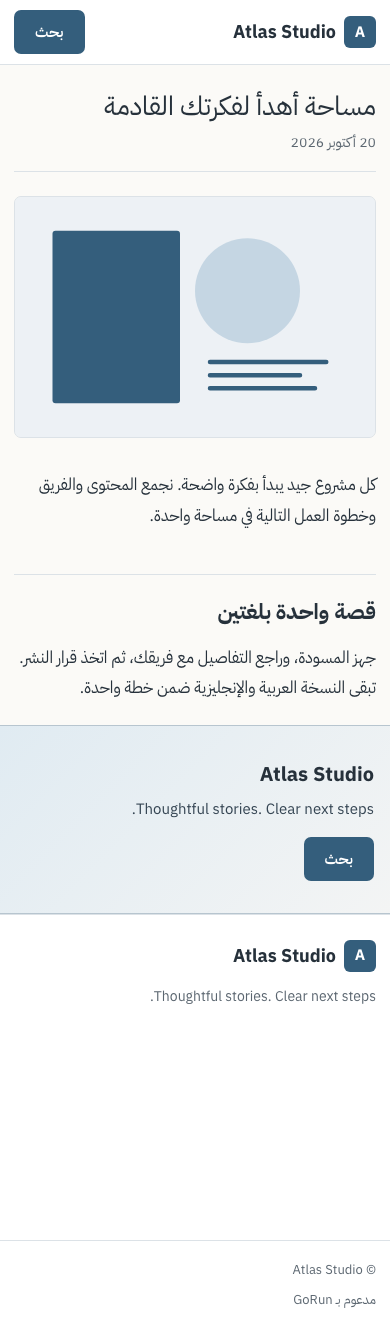
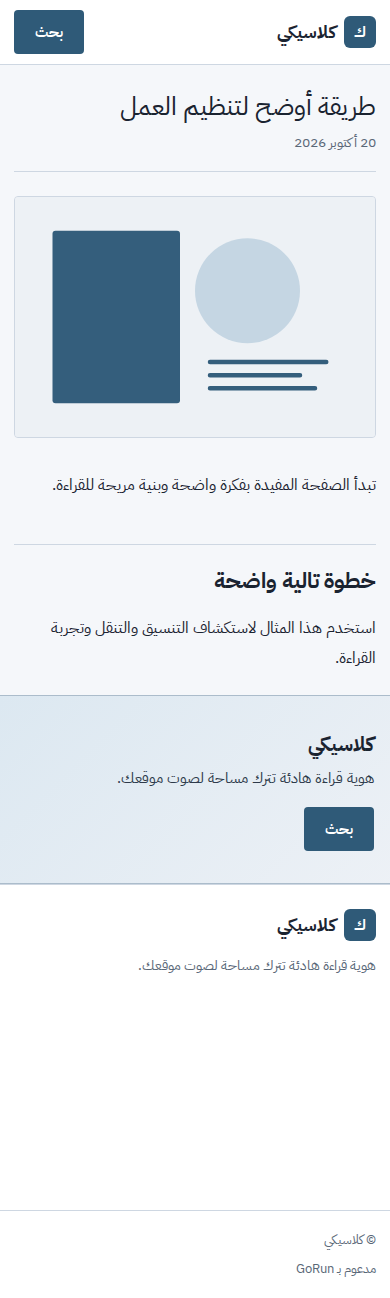
feat(themes): identity systems Classic/Modern/Minimal/Serif/Docs (#104)
Ship-with themes are identity token systems (not site-pattern packs).
Rename display names away from Harbor, refresh editorial / clean-technical
/ warm-local tokens, and regenerate admin screenshots. Slugs stay stable.

diff --git a/themes/portfolio/assets/site.css b/themes/portfolio/assets/site.css
@@ -1,4 +1,4 @@
-:where(html[data-theme="portfolio"]){--bg:#fbf9fd;--panel:#f4eff9;--panel-2:#eae2f2;--panel-3:#ded2e9;--head:#292132;--ink:#292132;--ink-2:#41374b;--muted:#64596f;--muted-tinted:#53465f;--line:#cfc3dc;--line-2:#e1d9e9;--line-strong:#9784aa;--accent:#6b3fa0;--accent-hover:#523078;--accent-ink:var(--accent);--accent-soft:#eee4f7;--accent-tint:#f6f0fb;--accent-line:#bda4d4;--on-accent:#fff;--green:var(--accent);--green-hover:var(--accent-hover);--blue:var(--ink);--radius:0;--radius-card:0;--font:system-ui,-apple-system,"Segoe UI",Tahoma,sans-serif;--font-ui:var(--font);--font-heading:var(--font);--body-size:16px;--site-width:1280px;--gp-width:var(--site-width);--gp-accent:var(--accent)}
+:where(html[data-theme="portfolio"]){--bg:#f1efe9;--panel:#f7f5f0;--panel-2:#e6e2d8;--panel-3:#d6d0c4;--head:#2a2824;--ink:#2a2824;--ink-2:#3f3c36;--muted:#6a655c;--muted-tinted:#56524a;--line:#c9c3b6;--line-2:#ddd8cd;--line-strong:#8a8478;--accent:#3f5d4a;--accent-hover:#334b3c;--accent-ink:var(--accent);--accent-soft:#dfe8e2;--accent-tint:#eef3ef;--accent-line:#8fad9a;--on-accent:#fff;--green:var(--accent);--green-hover:var(--accent-hover);--blue:var(--ink);--radius:2px;--radius-card:4px;--font:system-ui,-apple-system,"Segoe UI",Tahoma,sans-serif;--font-ui:var(--font);--font-heading:var(--font);--body-size:16px;--site-width:1120px;--gp-width:var(--site-width);--gp-accent:var(--accent)}
 :where(html[data-theme="portfolio"][dir="rtl"]){--font:Zad,"Zad Font",Tahoma,sans-serif;--font-ui:var(--font);--font-heading:var(--font)}
 body{margin:0;background:var(--gp-bg,var(--bg));color:var(--gp-text,var(--ink));font-size:var(--body-size);overflow-wrap:anywhere}button,input,textarea{font:inherit}a{color:inherit}a:focus-visible,summary:focus-visible,button:focus-visible,input:focus-visible,textarea:focus-visible{outline:2px solid currentColor;outline-offset:5px}img{max-width:100%;height:auto}.studio-shell{width:calc(100% - 4rem);max-width:var(--gp-width,1280px);margin-inline:auto}.studio-header{border-bottom:1px solid var(--line)}.studio-header-inner{display:flex;align-items:center;justify-content:space-between;gap:2rem;min-height:80px}.studio-brand{display:flex;align-items:center;gap:1rem;font-size:1.3rem;font-weight:750;text-decoration:none;max-width:60%}.studio-monogram{font-size:2.6rem;line-height:1}.studio-logo{height:44px;width:auto;max-width:150px;object-fit:contain}.studio-navigation{position:relative}.studio-navigation summary{display:flex;align-items:center;gap:2rem;cursor:pointer;padding:1rem 0;list-style:none;font-weight:650}.studio-navigation summary::-webkit-details-marker{display:none}.studio-navigation summary span{font-size:1.8rem;line-height:1}.studio-navigation[open] summary span{transform:rotate(45deg)}.studio-navigation-panel{position:absolute;inset-inline-end:0;inset-block-start:100%;background:var(--gp-bg,var(--bg));border:1px solid var(--line);padding:2rem;width:min(420px,calc(100vw - 4rem));z-index:40}.studio-navigation ul,.studio-footer ul{display:flex;flex-wrap:wrap;gap:1rem;list-style:none;margin:0;padding:0}.studio-navigation ul{display:grid;gap:1.2rem}.studio-navigation nav a{font-size:1.5rem;text-decoration:none}.studio-navigation form{display:flex;gap:.5rem;border-top:1px solid var(--line);margin-top:2rem;padding-top:1.5rem}.studio-navigation input{min-width:0;width:100%;background:transparent;border:1px solid var(--line);color:inherit;padding:.6rem}.studio-navigation button,.studio-search-form button{border:1px solid var(--line);background:transparent;color:inherit;padding:.6rem 1rem;cursor:pointer}.studio-locale{display:inline-block;margin-top:1.5rem}.studio-main{flex:1;width:100%}.studio-footer{border-top:1px solid var(--line);padding-block:5rem 2rem}.studio-footer-title{display:flex;justify-content:space-between;gap:1rem;font-size:clamp(2rem,6vw,5rem);font-weight:750;line-height:1.1;letter-spacing:-.035em;text-decoration:none}.studio-footer p{margin-block:1.5rem;max-width:50ch}.studio-footer-meta{display:flex;justify-content:space-between;flex-wrap:wrap;gap:2rem;margin-top:4rem;font-size:.85rem}.studio-footer nav a{text-underline-offset:.3em}.studio-article,.studio-listing,.studio-error{padding-block:5rem}.studio-article{max-width:min(var(--gp-width,1280px),1000px)}.studio-article h1,.studio-listing>h1,.studio-error h1,.studio-intro h1{font-weight:750;font-size:clamp(2.5rem,7vw,6rem);line-height:1.1;letter-spacing:-.035em;margin:0 0 2.5rem}.studio-featured{display:block;width:100%;max-height:650px;object-fit:cover}.studio-article figure{margin-block:3rem}.studio-article figcaption{font-size:.85rem;margin-top:1rem}.studio-article .prose-gp{max-width:72ch;margin-inline:auto;font-size:1.1rem}.studio-kicker{font:.8rem ui-monospace,SFMono-Regular,monospace;text-transform:uppercase;letter-spacing:.08em;margin-bottom:1rem}.studio-intro{padding-block:6rem}.studio-intro>p:last-child{font-size:1.3rem;max-width:46ch}
 .studio-hero{width:100%;border-bottom:1px solid var(--line)}
@@ -64,7 +64,7 @@ html[dir="rtl"] :is(h1,h2,h3,.studio-kicker,.studio-footer-title){letter-spacing
 
 /* UI/UX polish: empty + hero rhythm; keep project-imagery personality. */
 html[data-theme="portfolio"] body{background:
-  radial-gradient(820px 380px at 0% 0%,color-mix(in srgb,var(--gp-accent,var(--green)) 8%,transparent),transparent 55%),
+  radial-gradient(640px 280px at 0% 0%,color-mix(in srgb,var(--gp-accent,var(--green)) 10%,transparent),transparent 60%),
   var(--bg)}
 html[data-theme="portfolio"] .studio-empty{text-align:center;line-height:1.75;padding:2.5rem 1.25rem;background:color-mix(in srgb,var(--panel) 55%,var(--bg))}
 html[data-theme="portfolio"] .studio-hero-copy h1{max-width:12ch}

diff --git a/themes/magazine/assets/site.css b/themes/magazine/assets/site.css
@@ -1,4 +1,4 @@
-:where(html[data-theme="magazine"]){--bg:#f4f0e8;--panel:#f4f0e8;--panel-2:#e8e1d5;--panel-3:#ddd4c6;--head:#211e19;--ink:#211e19;--ink-2:#3a342c;--muted:#625c51;--muted-tinted:#4e483f;--line:#c7bead;--line-2:#d5cdbe;--line-strong:#817764;--accent:#89402e;--accent-hover:#743325;--accent-ink:#89402e;--accent-soft:#f0e4df;--accent-tint:#f7efe9;--accent-line:#c48a78;--on-accent:#fff;--green:var(--accent);--green-hover:var(--accent-hover);--blue:var(--accent);--font:Georgia,"Times New Roman",serif;--font-ui:system-ui,-apple-system,"Segoe UI",Tahoma,sans-serif;--font-heading:var(--font);--radius:0px;--radius-card:0;--body-size:17px;--site-width:1280px;--gp-width:var(--site-width);--gp-accent:var(--accent)}
+:where(html[data-theme="magazine"]){--bg:#f4f5f7;--panel:#fafbfc;--panel-2:#e8eaee;--panel-3:#d7dae1;--head:#151a22;--ink:#151a22;--ink-2:#2a3140;--muted:#5a6372;--muted-tinted:#484f5c;--line:#c5cad3;--line-2:#dde0e6;--line-strong:#7e8796;--accent:#1e3a5f;--accent-hover:#162c48;--accent-ink:#1e3a5f;--accent-soft:#dbe4f0;--accent-tint:#eef2f7;--accent-line:#7f9ab8;--on-accent:#fff;--green:var(--accent);--green-hover:var(--accent-hover);--blue:var(--accent);--font:Georgia,"Times New Roman",serif;--font-ui:system-ui,-apple-system,"Segoe UI",Tahoma,sans-serif;--font-heading:var(--font);--radius:0px;--radius-card:0;--body-size:17px;--site-width:1080px;--gp-width:var(--site-width);--gp-accent:var(--accent)}
 :where(html[data-theme="magazine"][dir="rtl"]){--font:Zad,"Zad Font",Tahoma,sans-serif;--font-ui:Zad,"Zad Font",Tahoma,sans-serif;--font-heading:var(--font)}
 *{box-sizing:border-box}html{scroll-behavior:smooth}body{margin:0;line-height:1.65;font-family:var(--font);background:var(--bg);color:var(--ink);font-size:17px;display:flex;flex-direction:column;min-height:100vh}img{display:block;max-width:100%;height:auto}button,input,textarea{font:inherit}a{color:inherit;text-decoration:none}a:hover{text-decoration:underline;text-underline-offset:.22em}a,button,summary,input,textarea{border-radius:0}a:focus-visible,button:focus-visible,summary:focus-visible,input:focus-visible,textarea:focus-visible{outline:3px solid var(--green);outline-offset:4px}p,h1,h2,h3{margin:0}ul{padding:0;list-style:none}::selection{background:var(--green);color:var(--on-accent,#fff)}
 .hidden{display:none}
@@ -12,12 +12,12 @@
 .ed-wordmark:hover{text-decoration:none}
 .ed-logo{max-height:70px;width:auto;max-width:160px}
 .ed-masthead>p{font-family:var(--font-ui);font-size:13px;letter-spacing:.025em;margin-top:12px}
-.ed-nav-shell{display:flex;align-items:center;justify-content:space-between;gap:1.5rem;border-top:3px double var(--ink);padding-block:15px;font-family:var(--font-ui);font-size:13px}
+.ed-nav-shell{display:flex;align-items:center;justify-content:space-between;gap:1.5rem;border-top:1px solid var(--ink);padding-block:14px;font-family:var(--font-ui);font-size:13px}
 .ed-desktop-nav ul,.ed-nav-tools{display:flex;align-items:center;flex-wrap:wrap;gap:1.6rem;margin:0}
 .ed-nav-tools{gap:1rem}
 .ed-mobile-nav{display:none}
 .ed-main{flex:1;padding-block:45px 75px;overflow-wrap:anywhere}
-.ed-hero-plane{width:100%;border-bottom:1px solid var(--ink);background:linear-gradient(180deg,color-mix(in srgb,var(--green) 8%,var(--panel)) 0%,var(--bg) 72%);margin-bottom:32px}
+.ed-hero-plane{width:100%;border-bottom:1px solid var(--line);background:linear-gradient(180deg,var(--panel) 0%,var(--bg) 100%);margin-bottom:32px}
 .ed-edition{display:grid;grid-template-columns:1fr 1fr;column-gap:4rem;padding-block:clamp(2.5rem,6vw,4.5rem);align-items:end}
 .ed-eyebrow{font-family:var(--font-ui);font-size:12px;font-weight:700;letter-spacing:.12em;text-transform:uppercase;color:var(--green);margin-bottom:14px}
 .ed-edition>.ed-eyebrow{grid-column:1/-1}
@@ -80,7 +80,7 @@
 .ed-error h1{font-size:42px;line-height:1.25}
 .ed-error p{margin-block:20px}
 .ed-button{display:inline-block}
-.ed-footer{border-top:3px double var(--ink)}
+.ed-footer{border-top:1px solid var(--ink)}
 .ed-footer-inner{display:grid;grid-template-columns:2fr 1fr auto;gap:45px;padding-block:45px}
 .ed-footer-name{font-size:36px;font-weight:700;line-height:1.2}
 .ed-footer-inner p{margin-top:14px;font-size:15px}

diff --git a/themes/business/assets/site.css b/themes/business/assets/site.css
@@ -1,4 +1,4 @@
-:where(html[data-theme="business"]){--bg:oklch(98% .006 150);--panel:oklch(96% .009 150);--panel-2:oklch(92% .018 150);--panel-3:oklch(88% .02 150);--head:oklch(25% .025 150);--ink:oklch(25% .025 150);--ink-2:oklch(32% .025 150);--muted:oklch(45% .02 150);--muted-tinted:oklch(38% .022 150);--line:oklch(82% .017 150);--line-2:oklch(88% .012 150);--line-strong:oklch(65% .02 150);--accent:#1e6650;--accent-hover:#174f3e;--accent-ink:var(--accent);--accent-soft:oklch(94% .03 150);--accent-tint:oklch(96% .02 150);--accent-line:oklch(70% .06 150);--on-accent:#fff;--green:var(--accent);--font:system-ui,-apple-system,"Segoe UI",Tahoma,sans-serif;--font-ui:var(--font);--font-heading:var(--font);--site-width:1280px;--gp-width:var(--site-width);--gp-accent:var(--accent);--radius:0;--radius-card:0;color-scheme:light;font-family:var(--font);background:var(--bg);color:var(--ink)}
+:where(html[data-theme="business"]){--bg:#fafbfc;--panel:#ffffff;--panel-2:#f0f2f5;--panel-3:#e4e8ed;--head:#0b0f14;--ink:#0b0f14;--ink-2:#1c2430;--muted:#4b5563;--muted-tinted:#374151;--line:#d1d5db;--line-2:#e5e7eb;--line-strong:#6b7280;--accent:#0f766e;--accent-hover:#0d5f59;--accent-ink:var(--accent);--accent-soft:#ccfbf1;--accent-tint:#f0fdfa;--accent-line:#5eead4;--on-accent:#fff;--green:var(--accent);--font:system-ui,-apple-system,"Segoe UI",Tahoma,sans-serif;--font-ui:var(--font);--font-heading:var(--font);--site-width:1200px;--gp-width:var(--site-width);--gp-accent:var(--accent);--radius:0;--radius-card:0;--body-size:15px;color-scheme:light;font-family:var(--font);background:var(--bg);color:var(--ink)}
 :where(html[data-theme="business"][dir="rtl"]){--font:Zad,"Zad Font",Tahoma,sans-serif;--font-ui:var(--font);--font-heading:var(--font)}
 html[data-theme="business"] *{box-sizing:border-box}
 html[data-theme="business"] body{margin:0;font-family:var(--font);line-height:1.7;background:var(--bg);color:var(--ink);overflow-wrap:anywhere}
@@ -71,7 +71,7 @@ html[data-theme="business"] .sb-error-number{font-size:clamp(6rem,20vw,13rem);li
 html[data-theme="business"] .sb-not-found h1{font-size:2rem;margin-bottom:1rem}
 html[data-theme="business"] :is(.sb-action,.gp-button){display:inline-flex;align-items:center;justify-content:center;text-decoration:none;border:1px solid var(--gp-accent);background:var(--gp-accent);color:var(--on-accent,#fff);padding:1rem 1.5rem;font-weight:700;width:fit-content;max-width:100%}
 html[data-theme="business"] .sb-hero{width:100%;border-bottom:1px solid var(--line)}
-html[data-theme="business"] .sb-hero-plane{width:100%;background:linear-gradient(160deg,color-mix(in srgb,var(--gp-accent) 10%,var(--panel)) 0%,var(--bg) 55%,var(--bg) 100%)}
+html[data-theme="business"] .sb-hero-plane{width:100%;background:linear-gradient(180deg,var(--panel-2) 0%,var(--bg) 70%);border-block-end:1px solid var(--line)}
 html[data-theme="business"] .sb-hero-inner{width:min(calc(100% - 4rem),var(--gp-width));margin-inline:auto;display:grid;grid-template-columns:1fr 1fr;gap:clamp(2rem,5vw,4rem);align-items:center;padding-block:clamp(3rem,7vw,5.5rem)}
 html[data-theme="business"] .sb-home-copy>p:last-child{color:var(--muted);margin-top:2rem;max-width:44ch}
 html[data-theme="business"] .sb-hero-art{width:100%;height:auto;border:1px solid var(--line);background:var(--panel)}

diff --git a/e2e/tests/theme-identities.spec.ts b/e2e/tests/theme-identities.spec.ts
@@ -6,11 +6,11 @@ import { resolve } from 'node:path';
 import { csrf, db, setLocale, MARKER_500 } from '../lib/helpers.ts';
 
 const themes = [
-  {slug:'default',en:'Reading & blog',ar:'مدونة وقراءة',accent:'#345e7c',enNote:'Notes, guides and ideas, with room to read.',arNote:'مقالات وأفكار وأدلة، في مساحة مريحة للقراءة.'},
-  {slug:'business',en:'Company & services',ar:'شركة وخدمات',accent:'#1e6650',enNote:'Clear services, selected work and a direct way to get in touch.',arNote:'خدمات واضحة وأعمال مختارة وطريقة مباشرة للتواصل.'},
-  {slug:'portfolio',en:'Project portfolio',ar:'معرض الأعمال',accent:'#6b3fa0',enNote:'Selected projects, process and the work behind them.',arNote:'مشاريع مختارة، وخطوات العمل والأفكار التي تقف وراءها.'},
-  {slug:'magazine',en:'Editorial magazine',ar:'مجلة تحريرية',accent:'#89402e',enNote:'Stories, perspectives and thoughtful long-form reading.',arNote:'قصص ووجهات نظر ومقالات تستحق وقت القراءة.'},
-  {slug:'docs',en:'Knowledge base',ar:'قاعدة المعرفة',accent:'#374fa0',enNote:'Guides, references and answers, organized for finding.',arNote:'أدلة ومراجع وإجابات، مرتبة لتصل إليها بسهولة.'},
+  {slug:'default',en:'Classic',ar:'كلاسيكي',accent:'#2f5a78',enNote:'A calm reading identity with room for your voice.',arNote:'هوية قراءة هادئة تترك مساحة لصوت موقعك.'},
+  {slug:'business',en:'Modern',ar:'حديث',accent:'#0f766e',enNote:'Sharp, high-contrast chrome for clear pages.',arNote:'واجهة حادة وتباين واضح لصفحات مفهومة.'},
+  {slug:'portfolio',en:'Minimal',ar:'بسيط',accent:'#3f5d4a',enNote:'Quiet earth tones that stay out of the way.',arNote:'ألوان ترابية هادئة لا تنافس محتواك.'},
+  {slug:'magazine',en:'Serif',ar:'سيرف',accent:'#1e3a5f',enNote:'Type-led identity for long-form reading.',arNote:'هوية تعتمد على الخط لقراءة مطوّلة.'},
+  {slug:'docs',en:'Docs',ar:'توثيق',accent:'#155e75',enNote:'Light steel chrome for guides and reference.',arNote:'واجهة فولاذية خفيفة للأدلة والمراجع.'},
 ];
 
 function setting(key:string,value:unknown) {

diff --git a/e2e/tests/site-starter.spec.ts b/e2e/tests/site-starter.spec.ts
@@ -3,7 +3,7 @@ import {db,env,setContentLocale,setLocale,expectNoServerError} from '../lib/help
 
 test('three site starters prepare private drafts, activate usable sites and apply editable identity',async({page,browser},testInfo)=>{
  test.setTimeout(180_000);
- const designs={company:{theme:'business',pages:5,background:'rgb(248, 251, 249)',accent:'#1e6650',font:'zad'},portfolio:{theme:'portfolio',pages:5,background:'rgb(251, 249, 253)',accent:'#6b3fa0',font:'zad'},magazine:{theme:'magazine',pages:4,background:'rgb(244, 240, 232)',accent:'#89402e',font:'serif'}};
+ const designs={company:{theme:'business',pages:5,background:'rgb(250, 251, 252)',accent:'#0f766e',font:'zad'},portfolio:{theme:'portfolio',pages:5,background:'rgb(241, 239, 233)',accent:'#3f5d4a',font:'zad'},magazine:{theme:'magazine',pages:4,background:'rgb(244, 245, 247)',accent:'#1e3a5f',font:'serif'}};
  const errors:string[]=[];page.on('pageerror',error=>errors.push(error.message));
  const keys=['site.title','site.tagline','site.locale','site.front_page','site.theme','site.logo','builder.identity'];
  const database=db();
@@ -18,7 +18,7 @@ test('three site starters prepare private drafts, activate usable sites and appl
   await expect(page.getByRole('heading',{level:1})).toContainText('تصميم الموقع');
   for(const kind of ['company','portfolio','magazine'] as const){
    const design=designs[kind];
-   const siteTitle={company:'شركة وخدمات',portfolio:'Project portfolio',magazine:'مجلة تحريرية'}[kind];
+   const siteTitle={company:'حديث',portfolio:'Minimal',magazine:'سيرف'}[kind];
    const siteTagline={company:'نبني مواقع واضحة وتجارب رقمية تخدم أهداف مشروعك.',portfolio:'Independent design, thoughtful identities and digital experiences.',magazine:'مجلة مستقلة للأفكار والثقافة والتصميم.'}[kind];
    const publicThemeBefore=(database.prepare("SELECT value_json FROM settings WHERE key='site.theme'").get() as any)?.value_json;
    const publicFrontBefore=(database.prepare("SELECT value_json FROM settings WHERE key='site.front_page'").get() as any)?.value_json;

diff --git a/themes/default/assets/style.css b/themes/default/assets/style.css
@@ -55,38 +55,42 @@ html[data-theme="default"] .reading-card > a:last-child { min-height: 44px; disp
  html:is([data-theme="default"],[data-theme="docs"]) .reading-article .prose-gp { font-size: 1rem; }
 }
 
-/* Default personality (overrides shared base tokens). */
+/* Classic identity: editorial tokens (airy cool paper, serif headings, ink-blue). */
 :where(html[data-theme="default"]) {
-  --bg: #fbfaf7;
+  --bg: #f5f7fa;
   --panel: #ffffff;
-  --panel-2: #f0f2f3;
-  --panel-3: #e2e8ec;
-  --head: #26313b;
-  --ink: #26313b;
-  --ink-2: #344452;
-  --muted: #5b6670;
-  --muted-tinted: #4b5965;
-  --line: #dce2e7;
-  --line-2: #e7ebee;
-  --line-strong: #a4b2be;
-  --accent: #345e7c;
-  --accent-hover: #284a62;
-  --accent-ink: #345e7c;
-  --accent-soft: #e0ebf2;
-  --accent-tint: #f0f5f8;
-  --accent-line: #9fb9cc;
+  --panel-2: #e9eef4;
+  --panel-3: #d8e0ea;
+  --head: #1a2330;
+  --ink: #1a2330;
+  --ink-2: #2d3a4a;
+  --muted: #5a6878;
+  --muted-tinted: #485667;
+  --line: #ced7e2;
+  --line-2: #e0e6ed;
+  --line-strong: #8f9faf;
+  --accent: #2f5a78;
+  --accent-hover: #244960;
+  --accent-ink: #2f5a78;
+  --accent-soft: #dce8f1;
+  --accent-tint: #eef3f8;
+  --accent-line: #8fadc4;
   --on-accent: #ffffff;
   --green: var(--accent);
   --green-hover: var(--accent-hover);
   --green-soft: var(--accent-soft);
-  --radius: 7px;
-  --radius-card: 12px;
-  --site-width: 1160px;
+  --radius: 4px;
+  --radius-card: 8px;
+  --site-width: 1120px;
   --gp-width: var(--site-width);
-  --body-size: 15px;
+  --body-size: 16px;
+  --section-pad-y: 96px;
   --font: "Zad", "Zad Font", Tahoma, system-ui, -apple-system, "Segoe UI", sans-serif;
   --font-ui: var(--font);
-  --font-heading: var(--font);
+  --font-heading: Georgia, "Times New Roman", "Zad", "Zad Font", serif;
+}
+:where(html[data-theme="default"][dir="rtl"]) {
+  --font-heading: "Zad", "Zad Font", Tahoma, Georgia, serif;
 }
 html[data-theme="default"] .gp-site-width { max-width: var(--site-width); padding-inline: clamp(.875rem, 2.5vw, 1.5rem); }
 html[data-theme="default"] .default-site-header > div { min-height: 64px; gap: .5rem 1.15rem; }

diff --git a/themes/docs/assets/theme.css b/themes/docs/assets/theme.css
@@ -1,38 +1,38 @@
-/* Knowledge base: an indigo reading theme on top of default/style.css. Layout:
+/* Docs identity: steel chrome tokens on top of default/style.css. Layout:
    section sidebar, article, "on this page" list; stacked on phones.
    Tokens live under :where() so identity / builder can restyle them. */
 :where(html[data-theme="docs"]) {
   --bg: #ffffff;
   --panel: #ffffff;
-  --panel-2: #f4f7fa;
-  --panel-3: #e8eef4;
-  --head: #18212b;
-  --ink: #18212b;
-  --ink-2: #2a3542;
-  --muted: #55606d;
-  --muted-tinted: #44505c;
-  --line: #d8dee5;
-  --line-2: #e6ebf0;
-  --line-strong: #a9b5c2;
-  --accent: #374fa0;
-  --accent-hover: #293b7c;
-  --accent-ink: #374fa0;
-  --accent-soft: #e9edfb;
-  --accent-tint: #f3f5fd;
-  --accent-line: #9caadd;
+  --panel-2: #f3f6f8;
+  --panel-3: #e5ebf0;
+  --head: #14202b;
+  --ink: #14202b;
+  --ink-2: #243442;
+  --muted: #52606c;
+  --muted-tinted: #41505c;
+  --line: #d3dbe2;
+  --line-2: #e4e9ee;
+  --line-strong: #9aabb8;
+  --accent: #155e75;
+  --accent-hover: #124e61;
+  --accent-ink: #155e75;
+  --accent-soft: #d5eef5;
+  --accent-tint: #eef7fa;
+  --accent-line: #7ebfd0;
   --on-accent: #ffffff;
   --green: var(--accent);
   --green-hover: var(--accent-hover);
   --green-soft: var(--accent-soft);
-  --blue: #374fa0;
-  --blue-hover: #293b7c;
-  --blue-soft: #e9edfb;
-  --radius: 8px;
-  --radius-card: 12px;
+  --blue: #155e75;
+  --blue-hover: #124e61;
+  --blue-soft: #d5eef5;
+  --radius: 6px;
+  --radius-card: 8px;
   --font: system-ui, -apple-system, "Segoe UI", Tahoma, sans-serif;
   --font-ui: var(--font);
   --font-heading: var(--font);
-  --site-width: 1360px;
+  --site-width: 1280px;
   --gp-width: var(--site-width);
   --docs-accent: var(--accent);
   --docs-soft: var(--accent-soft);

diff --git a/internal/builder/starter_catalog.go b/internal/builder/starter_catalog.go
@@ -23,9 +23,9 @@ func starterChoices(ar bool) []starterChoice {
 	}
 	out := []starterChoice{}
 	for _, choice := range []struct{ id, nameEN, nameAR, descEN, descAR string }{
-		{"company", "Company & services", "شركة وخدمات", "A light company site: home, about, services, work and contact.", "موقع شركة فاتح متكامل: الرئيسية، من نحن، الخدمات، الأعمال والتواصل."},
-		{"portfolio", "Project portfolio", "معرض الأعمال", "An image-led portfolio: home, work, about, services and contact.", "بورتفوليو يبرز صور المشاريع: الرئيسية، الأعمال، النبذة، الخدمات والتواصل."},
-		{"magazine", "Editorial magazine", "مجلة تحريرية", "A complete editorial publication: home, about, topics and contact, with article and archive layouts.", "مجلة متكاملة: الرئيسية، عن المجلة، الموضوعات والتواصل، مع تصميم للمقالات والأرشيف."},
+		{"company", "Modern", "حديث", "Start with the Modern identity: clear pages for home, about, services, work and contact.", "ابدأ بهوية «حديث»: صفحات واضحة للرئيسية ومن نحن والخدمات والأعمال والتواصل."},
+		{"portfolio", "Minimal", "بسيط", "Start with the Minimal identity: home, work, about, services and contact with quiet chrome.", "ابدأ بهوية «بسيط»: الرئيسية والأعمال والنبذة والخدمات والتواصل بواجهة هادئة."},
+		{"magazine", "Serif", "سيرف", "Start with the Serif identity: home, about, topics and contact with type-led reading.", "ابدأ بهوية «سيرف»: الرئيسية وعن الموقع والموضوعات والتواصل بقراءة تعتمد على الخط."},
 	} {
 		design := starterDesign(choice.id)
 		out = append(out, starterChoice{ID: choice.id, Name: word(choice.nameEN, choice.nameAR), Description: word(choice.descEN, choice.descAR), Theme: design.Theme, Preview: "/static/admin/starter-previews/" + choice.id + ".png", Identity: design.Identity})

diff --git a/internal/builder/starter_design.go b/internal/builder/starter_design.go
@@ -10,11 +10,11 @@ type siteDesign struct {
 func starterDesign(kind string) siteDesign {
 	switch kind {
 	case "company":
-		return siteDesign{"business", brand.Identity{Accent: "#1e6650", Background: "#f8fbf9", Text: "#172d25", Font: "zad", Width: "wide"}}
+		return siteDesign{"business", brand.Identity{Accent: "#0f766e", Background: "#fafbfc", Text: "#0b0f14", Font: "zad", Width: "wide"}}
 	case "portfolio":
-		return siteDesign{"portfolio", brand.Identity{Accent: "#6b3fa0", Background: "#fbf9fd", Text: "#292132", Font: "zad", Width: "wide"}}
+		return siteDesign{"portfolio", brand.Identity{Accent: "#3f5d4a", Background: "#f1efe9", Text: "#2a2824", Font: "zad", Width: "wide"}}
 	case "magazine":
-		return siteDesign{"magazine", brand.Identity{Accent: "#89402e", Background: "#f4f0e8", Text: "#211e19", Font: "serif", Width: "wide"}}
+		return siteDesign{"magazine", brand.Identity{Accent: "#1e3a5f", Background: "#f4f5f7", Text: "#151a22", Font: "serif", Width: "wide"}}
 	default:
 		return siteDesign{"default", brand.Default()}
 	}

diff --git a/docs/THEMES.md b/docs/THEMES.md
@@ -5,8 +5,8 @@
 > `lang/<locale>.json`. يختار المحرك أول قالب موجود وفق تسلسل يشبه ووردبريس (`page-{slug}` ثم `page` ثم
 > `single` ثم `index`…). القالب الفعّال هو الإعداد `site.theme`، ويُفعَّل من **المظهر ← القوالب**. يمكن
 > تخصيص أي قالب من اللوحة أو عبر REST أو MCP كمسودة تُعاين ثم تُنشر، وتُحفظ التعديلات في
-> `<DataDir>/overrides/<theme>/`. الكتالوج العام خمسة قوالب: `default` (مدونة)، و`business` (شركة وخدمات)،
-> و`magazine` (مجلة ومحتوى)، و`portfolio` (أعمال شخصية)، و`docs` (توثيق). الأسماء القديمة (`minimal`
+> `<DataDir>/overrides/<theme>/`. الكتالوج العام خمسة **هويات**: `default` (كلاسيكي / Classic)، و`business` (حديث / Modern)،
+> و`magazine` (سيرف / Serif)، و`portfolio` (بسيط / Minimal)، و`docs` (توثيق / Docs). الأسماء القديمة (`minimal`
 > و`studio-business` و`studio-editorial` و`studio-portfolio`) تعمل تلقائيًا كأسماء بديلة، والموقع الذي يستخدم
 > أحدها ينتقل مرة واحدة مع إعداداته وتخصيصاته. القوالب المستقلة المبنية لموقع واحد تبقى
 > خارج الكتالوج في مجلد منفصل وتُحمَّل على خوادمها فقط عبر `GORUN_THEMES_EXTRA`.
@@ -15,31 +15,37 @@ A GoRun theme is a directory of Go `html/template` files under `themes/<slug>/`,
 
 ## The theme catalog
 
-Five general themes ship in `themes/` and appear in **Appearance → Themes** (or `theme = "<slug>"` in `gorun.toml`). All are children of `default`, so shop, account, checkout and form templates come from it unless a theme overrides them.
+Ship-with themes are **identity systems** (type, color, spacing, chrome). They are site picker
+choices for how a site looks and feels — not GoRun product branding, and not opinionated
+magazine/business/portfolio *site patterns* (those belong in plugins). Five identities ship
+in `themes/` under **Appearance → Themes** (or `theme = "<slug>"` in `gorun.toml`). All children
+of `default` inherit shop, account, checkout and form templates unless overridden.
 
 **Switching themes in the admin:** open **Appearance → Themes**, activate a catalog slug (`site.theme`). That changes public rendering immediately for new requests. It does **not** create starter pages — use **Appearance → Build your site** for that ([SITE_BUILDER.md](SITE_BUILDER.md)). Initial install can also set `theme` in `gorun.toml` / `GORUN_THEME` before the first boot; afterwards prefer the admin so the change is audited.
 
-| Slug (unchanged) | Display name | For and visual treatment |
-|---|---|---|
-| `default` | Reading & blog | general sites and personal writing; warm paper, ink-blue links, calm reading cards |
-| `business` | Company & services | companies and services; forest accents, structured geometry, clear service sections |
-| `portfolio` | Project portfolio | independent professionals; plum accents, oversized type, image-led project layouts |
-| `magazine` | Editorial magazine | editorial teams; warm ivory, rust accents, Latin serif and a ruled masthead |
-| `docs` | Knowledge base | documentation; indigo accents, native type, search and ordered page navigation |
+| Slug (stable ID) | Display (EN / AR) | Role | Look (tokens) |
+|---|---|---|---|
+| `default` | Classic / كلاسيكي | calm reading identity | editorial — cool paper, serif headings, ink-blue |
+| `business` | Modern / حديث | sharp chrome identity | clean-technical — strong sans, high contrast |
+| `portfolio` | Minimal / بسيط | quiet chrome identity | warm-local — stone/sage earth tones |
+| `magazine` | Serif / سيرف | type-led identity | editorial — serif type, navy accent, cool paper |
+| `docs` | Docs / توثيق | light docs chrome | steel accent, reference-friendly spacing |
 
-These are descriptive theme categories, not standalone companies. Gallery previews
-use synthetic category titles (مدونة وقراءة، شركة وخدمات، معرض الأعمال، مجلة تحريرية،
-قاعدة المعرفة). Activating a theme preserves your saved site title, logo, menus
-and identity settings; those values take precedence over theme defaults. Starter
-presets are separate, explicit site-creation choices and use matching palettes.
-A local `gorun start` provisions the bundled `default` theme; public release
-archives include all five theme directories. No production identity migration is
-needed when these display names or preview images change. Shared base tokens and
-theme defaults use zero-specificity selectors; saved builder identity and explicit
-per-theme identity settings take precedence. Bundled fonts work without a remote
-font service (a font you explicitly select in identity settings may still use one).
+**ID stability:** directory slugs (`default`, `business`, `magazine`, `portfolio`, `docs`)
+are the install contract (`site.theme`, settings keys `theme.<slug>.*`, overrides paths).
+Only display names, tokens and screenshots change; no migration for existing sites.
 
-`business`, `magazine` and `portfolio` are complete designs: they style navigation, footer, internal pages, article cards, search, empty results, contact and errors, load no public JavaScript or external fonts, and ship original local SVG artwork to replace before publication.
+Gallery previews use synthetic titles (كلاسيكي، حديث، بسيط، سيرف، توثيق). Activating a theme
+preserves saved site title, logo, menus and identity settings. Starter presets apply a matching
+identity palette when preparing draft pages. A local `gorun start` provisions bundled `default`;
+release archives include all five directories. Shared base tokens use zero-specificity selectors;
+saved builder identity and per-theme identity settings take precedence.
+
+**Screenshot refresh:** `THEME_SCREENSHOTS=1` on `e2e/tests/theme-identities.spec.ts` rewrites
+each `themes/<slug>/screenshot.png` from the Arabic 1280px home view.
+
+Catalog themes style navigation, footer, cards, search, empty and error states with local SVG
+artwork and no required public JavaScript or external fonts.
 
 ### Catalog contract (`pkg/themekit`)
 

diff --git a/docs/SITE_BUILDER.md b/docs/SITE_BUILDER.md
@@ -8,9 +8,9 @@
 
 | التصميم | الصفحات الجاهزة | مناسب لـ |
 |---|---|---|
-| شركة وخدمات — Studio Business | الرئيسية، من نحن، الخدمات، الأعمال، التواصل | الشركات والوكالات والخدمات |
-| بورتفوليو — Studio Portfolio | الرئيسية، الأعمال، النبذة، الخدمات، التواصل | المصممين وأصحاب الأعمال الإبداعية |
-| مجلة — Studio Editorial | الرئيسية، عن المجلة، الموضوعات، التواصل | المقالات والمنشورات التحريرية |
+| حديث — Modern (`business`) | الرئيسية، من نحن، الخدمات، الأعمال، التواصل | هوية نظيفة حادة للشركات والخدمات |
+| بسيط — Minimal (`portfolio`) | الرئيسية، الأعمال، النبذة، الخدمات، التواصل | هوية هادئة للأعمال الشخصية والمشاريع |
+| سيرف — Serif (`magazine`) | الرئيسية، عن الموقع، الموضوعات، التواصل | هوية تعتمد على الخط للقراءة والمحتوى |
 
 لكل تصميم قائمة وتذييل وصفحات داخلية ومقالات وبحث وحالات فراغ وخطأ. القوالب الثلاثة تدعم العربية والإنجليزية والموبايل وتستخدم صورًا ورسومات محلية. المجلة تعرض المقالات المنشورة فعليًا؛ لا ينشئ المعالج مقالات أو أعمال عملاء حقيقية تلقائيًا.
 

diff --git a/DESIGN.md b/DESIGN.md
@@ -6,7 +6,7 @@ Product context: PRODUCT.md.
 Light neutral work surface, readable ink and restrained green selection/action states. Compact desktop density with 44px mobile controls. Familiar sidebar, search topbar, content area; detail disclosure reduces metadata noise. Self-hosted Zad typography, Arabic RTL with normal letter spacing, logical CSS dimensions and explicit keyboard focus.
 
 ## Public themes
-Default is a quiet reading layout; company is a light service studio; portfolio emphasizes project imagery; editorial uses warm paper and typographic hierarchy. Saved site identities override defaults. Keep CSS scoped by data-theme and preserve inherited-template behavior.
+Ship-with themes are **identity systems** (type, color, spacing, chrome), not opinionated site-pattern layouts. Stable slugs: `default` Classic, `business` Modern, `portfolio` Minimal, `magazine` Serif, `docs` Docs. Looks: editorial (Classic/Serif), clean-technical (Modern), warm-local (Minimal). Site brand and content own the voice; saved identities override defaults. Keep CSS scoped by data-theme. Full site patterns (magazine/business/portfolio packs) belong in plugins, not the theme catalog.
 
 ## Constraints
 Selected homepage heroes may use a self-hosted Three.js enhancement, with three preset shapes, an off switch, reduced-motion support and a static fallback. Load it only on pages that use it. No fabricated content or performance claims. Draft creation, preview and activation remain separate. Screenshot previews must come from real rendered templates. Responsive and keyboard verification accompany changes.
